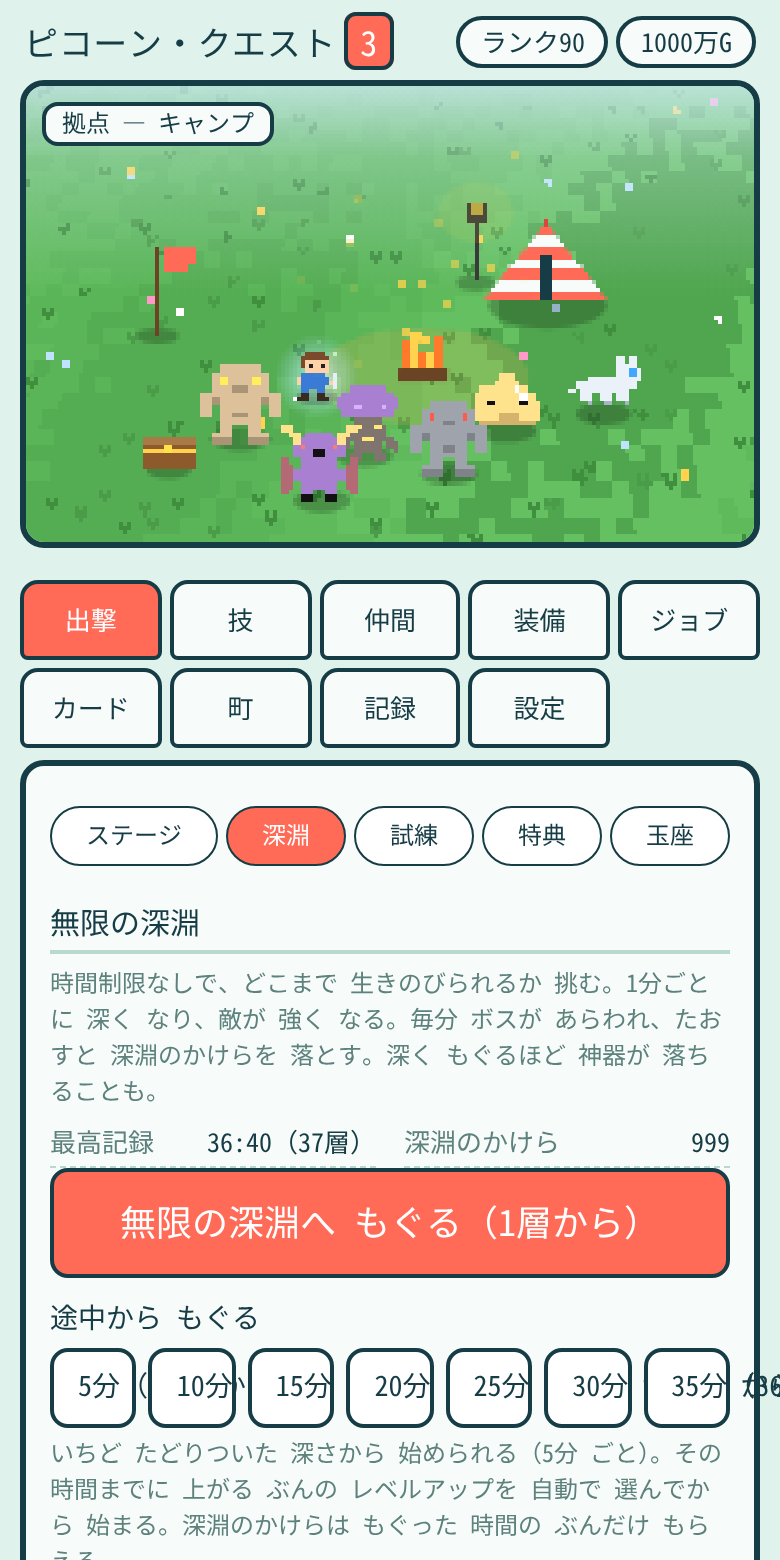
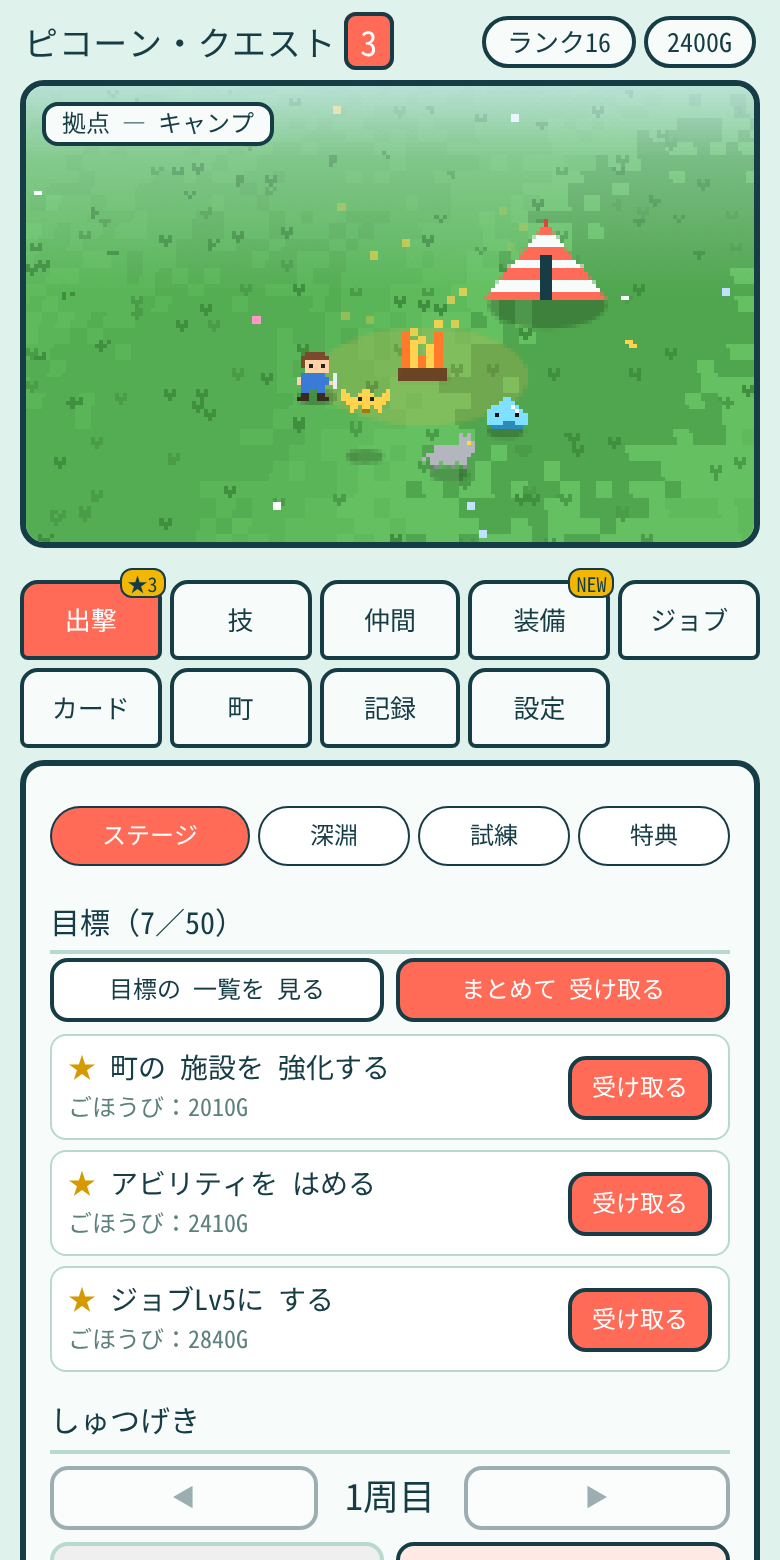
紹介ページの画像を序盤の状態に撮り直し（ネタバレ回避）
Claude-Session: https://claude.ai/code/session_01Nw89DTUZgyNiroyHWTfm5y

diff --git a/index.html b/index.html
@@ -123,7 +123,7 @@ footer{padding-block:26px 40px;border-top:2px dashed var(--line);text-align:cent
   </div>
   <div class="phones" aria-hidden="true">
     <div class="phone"><img src="assets/battle.png" alt="" width="390" height="780"></div>
-    <div class="phone"><img src="assets/abyss.png" alt="" width="390" height="780"></div>
+    <div class="phone"><img src="assets/boss.png" alt="" width="390" height="780"></div>
   </div>
 </header>
 
@@ -163,7 +163,7 @@ footer{padding-block:26px 40px;border-top:2px dashed var(--line);text-align:cent
 <section aria-labelledby="g-h">
   <h2 id="g-h">拾って、くらべて、仕上げる<small>装備まわりの くわしい 話</small></h2>
   <div class="split">
-    <div class="shot"><div class="phone"><img src="assets/gear.png" alt="装備の 詳細画面。効果ごとの 品質、深淵Lv、伝説の効果、セット効果、効果の 付け直しボタンが 並んでいる" width="390" height="780" loading="lazy"></div></div>
+    <div class="shot"><div class="phone"><img src="assets/gear.png" alt="装備の 詳細画面。効果ごとの 品質、伝説の効果、セット効果、効果の 付け直しボタンが 並んでいる" width="390" height="780" loading="lazy"></div></div>
     <div>
       <p>武器は 剣・刀・斧・槍・弓・ブーメラン・杖・竪琴など 13種。持つ 武器で 攻撃の 形と ひらめく 技が かわります。</p>
       <p>装備の 効果は 拾うたびに 数値が ちがい、品質（％）で 当たり外れが 見えます。全部の 効果が 高い「完璧」や、性能 1.5倍の「輝く」装備は めったに 出ません。</p>
@@ -177,7 +177,7 @@ footer{padding-block:26px 40px;border-top:2px dashed var(--line);text-align:cent
 <section aria-labelledby="d-h">
   <h2 id="d-h">周回の 先へ<small>周回と 無限の深淵</small></h2>
   <div class="split rev">
-    <div class="shot"><div class="phone"><img src="assets/camp.png" alt="拠点の 画面。無限の深淵の 最高記録と、5分ごとに 途中から もぐれる ボタンが 並んでいる" width="390" height="780" loading="lazy"></div></div>
+    <div class="shot"><div class="phone"><img src="assets/camp.png" alt="拠点の 画面。キャンプに 仲間が いて、目標と ごほうびが 並んでいる" width="390" height="780" loading="lazy"></div></div>
     <div>
       <p>6つの ステージを 魔界まで 進むと 1周。周回を 重ねるほど 敵は 強くなり、周回ごとに 特典が ひらきます（どんな 特典かは ひらくまで ひみつ）。</p>
       <p>周回を 進めると「無限の深淵」へ。ここだけは 2分の 区切りが なく、1分ごとに 層が 深くなり、毎分 ボスが あらわれます。どこまで 生きのびたかが 記録に なり、到達した 深さで さらに 特典が ひらきます。</p>

diff --git a/src/intro.html b/src/intro.html
@@ -123,7 +123,7 @@ footer{padding-block:26px 40px;border-top:2px dashed var(--line);text-align:cent
   </div>
   <div class="phones" aria-hidden="true">
     <div class="phone"><img src="assets/battle.png" alt="" width="390" height="780"></div>
-    <div class="phone"><img src="assets/abyss.png" alt="" width="390" height="780"></div>
+    <div class="phone"><img src="assets/boss.png" alt="" width="390" height="780"></div>
   </div>
 </header>
 
@@ -163,7 +163,7 @@ footer{padding-block:26px 40px;border-top:2px dashed var(--line);text-align:cent
 <section aria-labelledby="g-h">
   <h2 id="g-h">拾って、くらべて、仕上げる<small>装備まわりの くわしい 話</small></h2>
   <div class="split">
-    <div class="shot"><div class="phone"><img src="assets/gear.png" alt="装備の 詳細画面。効果ごとの 品質、深淵Lv、伝説の効果、セット効果、効果の 付け直しボタンが 並んでいる" width="390" height="780" loading="lazy"></div></div>
+    <div class="shot"><div class="phone"><img src="assets/gear.png" alt="装備の 詳細画面。効果ごとの 品質、伝説の効果、セット効果、効果の 付け直しボタンが 並んでいる" width="390" height="780" loading="lazy"></div></div>
     <div>
       <p>武器は 剣・刀・斧・槍・弓・ブーメラン・杖・竪琴など 13種。持つ 武器で 攻撃の 形と ひらめく 技が かわります。</p>
       <p>装備の 効果は 拾うたびに 数値が ちがい、品質（％）で 当たり外れが 見えます。全部の 効果が 高い「完璧」や、性能 1.5倍の「輝く」装備は めったに 出ません。</p>
@@ -177,7 +177,7 @@ footer{padding-block:26px 40px;border-top:2px dashed var(--line);text-align:cent
 <section aria-labelledby="d-h">
   <h2 id="d-h">周回の 先へ<small>周回と 無限の深淵</small></h2>
   <div class="split rev">
-    <div class="shot"><div class="phone"><img src="assets/camp.png" alt="拠点の 画面。無限の深淵の 最高記録と、5分ごとに 途中から もぐれる ボタンが 並んでいる" width="390" height="780" loading="lazy"></div></div>
+    <div class="shot"><div class="phone"><img src="assets/camp.png" alt="拠点の 画面。キャンプに 仲間が いて、目標と ごほうびが 並んでいる" width="390" height="780" loading="lazy"></div></div>
     <div>
       <p>6つの ステージを 魔界まで 進むと 1周。周回を 重ねるほど 敵は 強くなり、周回ごとに 特典が ひらきます（どんな 特典かは ひらくまで ひみつ）。</p>
       <p>周回を 進めると「無限の深淵」へ。ここだけは 2分の 区切りが なく、1分ごとに 層が 深くなり、毎分 ボスが あらわれます。どこまで 生きのびたかが 記録に なり、到達した 深さで さらに 特典が ひらきます。</p>

diff --git a/tools/shots.py b/tools/shots.py
@@ -1,29 +1,31 @@
 """紹介ページ用の スクリーンショットを assets/ に 作る（開発用）。
+ネタバレを さけるため、序盤〜中盤の 状態で 撮る。
 python3 build.py --dev して http://localhost:8766/ で 配信してから 実行する。"""
 import asyncio,os
 from playwright.async_api import async_playwright
 OUT=os.path.join(os.path.dirname(os.path.abspath(__file__)),'..','assets')
+EARLY="""(()=>{const S={opt:{tips:false,autoLv:true,dbgGod:true,meter:false,nums:'all'},lv:16,exp:0,gold:2400,runs:14,clears:9,clear:[2,2,1,1,0,0],sel:{st:1,rd:2},
+ job:'kenshi',jobs:{kenshi:{lv:6,exp:0},mahou:{lv:3,exp:0},mamono:{lv:2,exp:0},suppin:{lv:1,exp:0}},abil:['kenshi0','kenshi1','kenshi2'],
+ allies:{slime:{lv:9,exp:0},bat:{lv:7,exp:0},wolf:{lv:6,exp:0},mush:{lv:4,exp:0}},party:['slime','bat','wolf'],
+ waza:{kabuto:{star:2,exp:0},kaiten:{star:3,exp:0}},bring:['kaiten','kabuto'],up:{atk:2,hp:2,spd:1,slot:2},album:{slime:1,bat:1,mush:1,wolf:1},cards:{slime:1,bat:1},
+ seen:{},ach:{},backupAsked:{r1:1,r3:1,r5:1,th:1,r10:1,r20:1},goals:{g_run:1,g_lv3:1,g_c0:1,g_hira:1,g_ally:1,g_inv:1,g_c1:1}};
+ for(const k in INTRO)S.seen[k]=1;TIPS.forEach(t=>S.seen[t[0]]=1);ACH.forEach(a=>S.ach[a[0]]=1);
+ window._noSave=1;localStorage.setItem('pq3-vs',JSON.stringify(S))})()"""
 async def main():
     async with async_playwright() as p:
         b=await p.chromium.launch();pg=await b.new_page(viewport={'width':390,'height':780},device_scale_factor=2)
         await pg.route('**/fonts.*/**',lambda r:r.abort())
         async def fresh(js):
-            await pg.goto('http://localhost:8766/dev.html');await pg.evaluate("window._noSave=1;localStorage.clear()");await pg.reload();await pg.wait_for_timeout(300)
-            await pg.evaluate("PQ3.ev('closeModal()')");await pg.evaluate("c=>PQ3.ev(c)",js);await pg.wait_for_timeout(200)
-        base="debugBuild(10);SV.debug=0;SV.ach={};ACH.forEach(a=>SV.ach[a[0]]=1);SV.opt.tips=false;SV.opt.autoLv=true;SV.opt.dbgGod=true;SV.opt.meter=false;SV.seen={};['tab_go','tab_gear','tab_town','townv_altar','gov_abyss','tab_rec','b_move','b_gem','b_hira','b_jg','b_elite','b_item','b_heart','b_card','b_boss','b_hp','b_rk','b_soul','b_combo','tab_ally','tab_job','tab_waza','tab_card','tab_cfg'].forEach(k=>SV.seen[k]=1);SV.backupAsked={r1:1,r3:1,r5:1,th:1,r10:1,r20:1};"
-        # 1 battle (stage, many enemies)
-        await fresh(base+"SV.sel={st:2,rd:8};startRun();")
-        await pg.wait_for_timeout(9000)
-        await pg.evaluate("document.querySelectorAll('.toast').forEach(t=>t.remove())");await pg.screenshot(path=OUT+'/battle.png');print('battle')
-        # 2 abyss with aura
-        await fresh(base+"SV.endBest=3400;SV.opt.nums='crit';startAbyss(25);")
-        await pg.wait_for_timeout(12000)
-        await pg.evaluate("document.querySelectorAll('.toast').forEach(t=>t.remove())");await pg.screenshot(path=OUT+'/abyss.png');print('abyss')
-        # 3 gear detail
-        await fresh(base+"""SV.clear=[10,10,10,10,10,10];const it=makeItem(0,{r:3,slot:'w',wt:'sword'});it.lg='wdbl';it.set='kensei';it.alv=24;it.afx.forEach((a,i)=>a.q=[.97,.88,.95,.99][i]||.9);it.ref=7;SV.inv.unshift(it);SV.eq.w=it.id;SV.want={dmg:1};renderCamp();itemModal(it.id,'')""")
-        await pg.wait_for_timeout(300);await pg.evaluate("document.querySelectorAll('.toast').forEach(t=>t.remove())");await pg.screenshot(path=OUT+'/gear.png');print('gear')
-        # 4 camp
-        await fresh(base+"SV.cos={own:{d_flag:1,d_lantern:1,d_chest:1},deco:{flag:1,lantern:1,chest:1},fire:'',col:''};SV.endBest=2200;TAB='go';GOV='abyss';renderCamp()")
-        await pg.wait_for_timeout(1500);await pg.evaluate("document.querySelectorAll('.toast').forEach(t=>t.remove())");await pg.screenshot(path=OUT+'/camp.png');print('camp')
+            await pg.goto('http://localhost:8766/dev.html');await pg.wait_for_timeout(200)
+            await pg.evaluate("c=>PQ3.ev(c)",EARLY);await pg.evaluate("window._noSave=1");await pg.reload();await pg.wait_for_timeout(400)
+            await pg.evaluate("PQ3.ev('closeModal()')")
+            await pg.evaluate("c=>PQ3.ev(c)","(()=>{for(let i=0;i<6;i++)SV.inv.push(makeItem(1));recommendEq();"+js+"})()");await pg.wait_for_timeout(200)
+        async def shot(name):
+            await pg.evaluate("document.querySelectorAll('.toast').forEach(t=>t.remove())");await pg.screenshot(path=OUT+'/'+name);print(name)
+        await fresh("closeModal();startRun()");await pg.wait_for_timeout(9000);await shot('battle.png')
+        await fresh("closeModal();SV.sel={st:1,rd:1};startRun();R.t=116");await pg.wait_for_timeout(7000);await shot('boss.png')
+        await fresh("""SV.clear=[3,3,2,2,2,1];const it=makeItem(0,{r:3,slot:'w',wt:'sword'});it.lg='wdbl';it.set='kensei';it.afx.forEach((a,i)=>a.q=[.97,.88,.95,.99][i]||.9);it.ref=4;SV.inv.unshift(it);SV.eq.w=it.id;SV.want={dmg:1};closeModal();TAB='gear';renderCamp();itemModal(it.id,'')""")
+        await pg.wait_for_timeout(300);await shot('gear.png')
+        await fresh("closeModal();TAB='go';GOV='stage';renderCamp()");await pg.wait_for_timeout(1500);await shot('camp.png')
         await b.close()
 asyncio.run(main())
